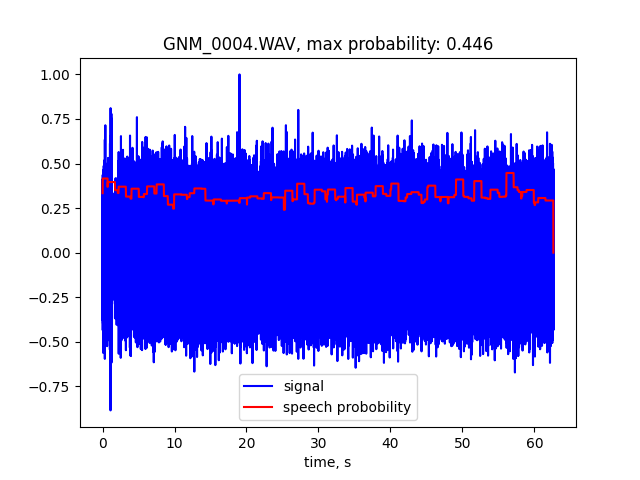
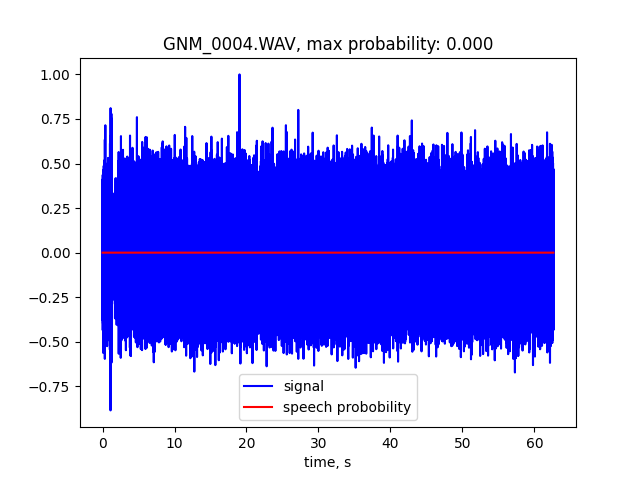
[+] add sigmoid

Changed region(s): [[0.1562, 0.3438, 0.875, 0.5312], [0.7188, 0.0625, 0.7812, 0.125]]

diff --git a/vad.py b/vad.py
@@ -22,6 +22,9 @@ class VAD():
         self.channels = len(self.data.shape)
         self.filename = wave_file
         pass
+
+    def sigmoid_by_thres(self,x, thres = 0.7855, dx = 0.791 - 0.78):
+        return 1 / (1 + np.exp(-(x - thres)/dx))
     
     
     def GetFreq(self, audio_data):
@@ -91,13 +94,17 @@ class VAD():
             sample_start += hop
 
         self.timestamps = timstamps
-        self.speech_prob = self.max_filter(speech_prob, win_size=101)
+        self.speech_prob = self.sigmoid_by_thres(self.max_filter(speech_prob, win_size=101))
         pass
     
     def plot_wav_and_prob(self, path_to_save):
 
         plt.plot(np.arange(len(self.data))/self.rate, self.data/np.max(self.data), 'b', label="signal")
-        max_prob = str(np.max(self.speech_prob))
+        max_prob = np.max(self.speech_prob)
+        if  max_prob < 1e-3:
+            max_prob = "0.000000"
+        else:
+            max_prob = str(max_prob)
         max_prob = max_prob[0:5]
         plt.plot(self.timestamps, self.speech_prob, 'r', label = "speech probobility")
         plt.xlabel('time, s')
@@ -110,5 +117,6 @@ class VAD():
     def save_wav(self, path_to_save):
         f2 = interp1d(self.timestamps, self.speech_prob, kind='cubic', fill_value="extrapolate")
         wav = 10000*f2(np.arange(len(self.data))/self.rate)
+        wav[wav < 0] = np.median(wav)
         write(path_to_save, self.rate, wav.astype(np.int16))
  
